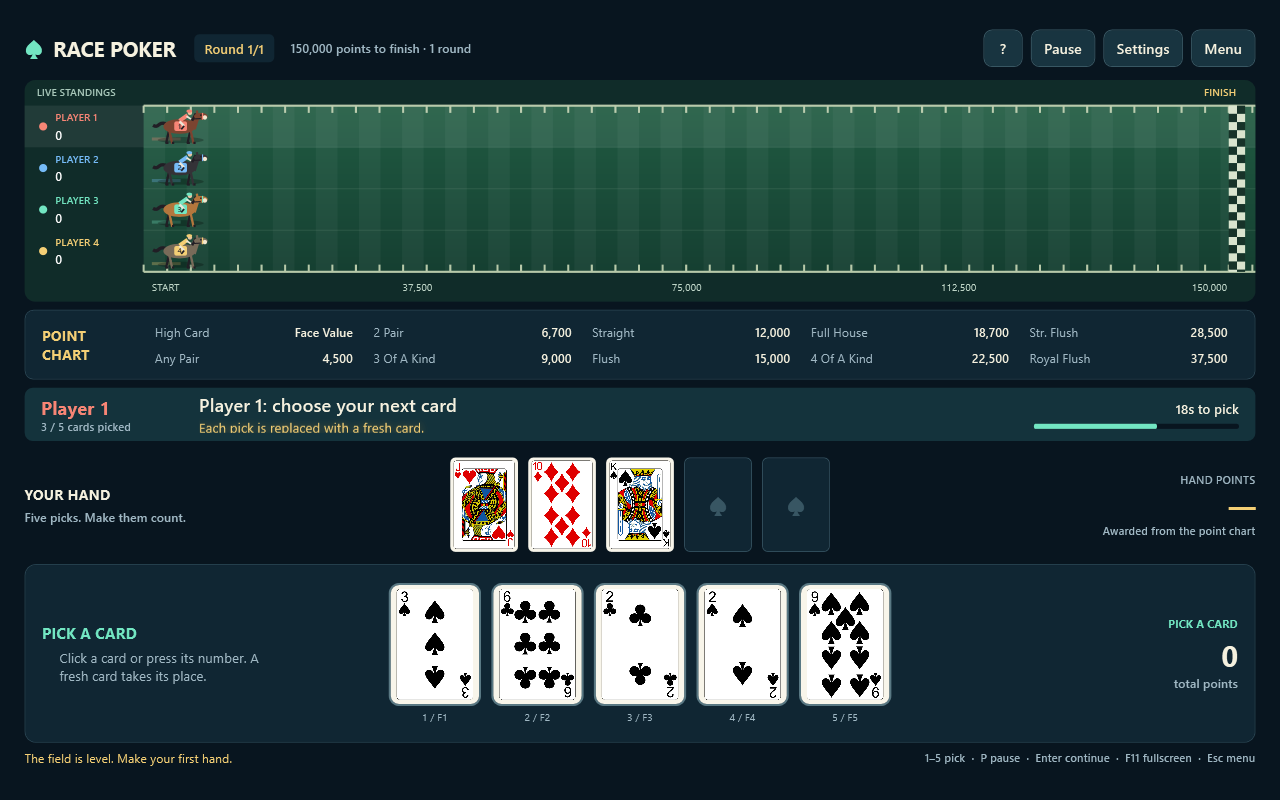
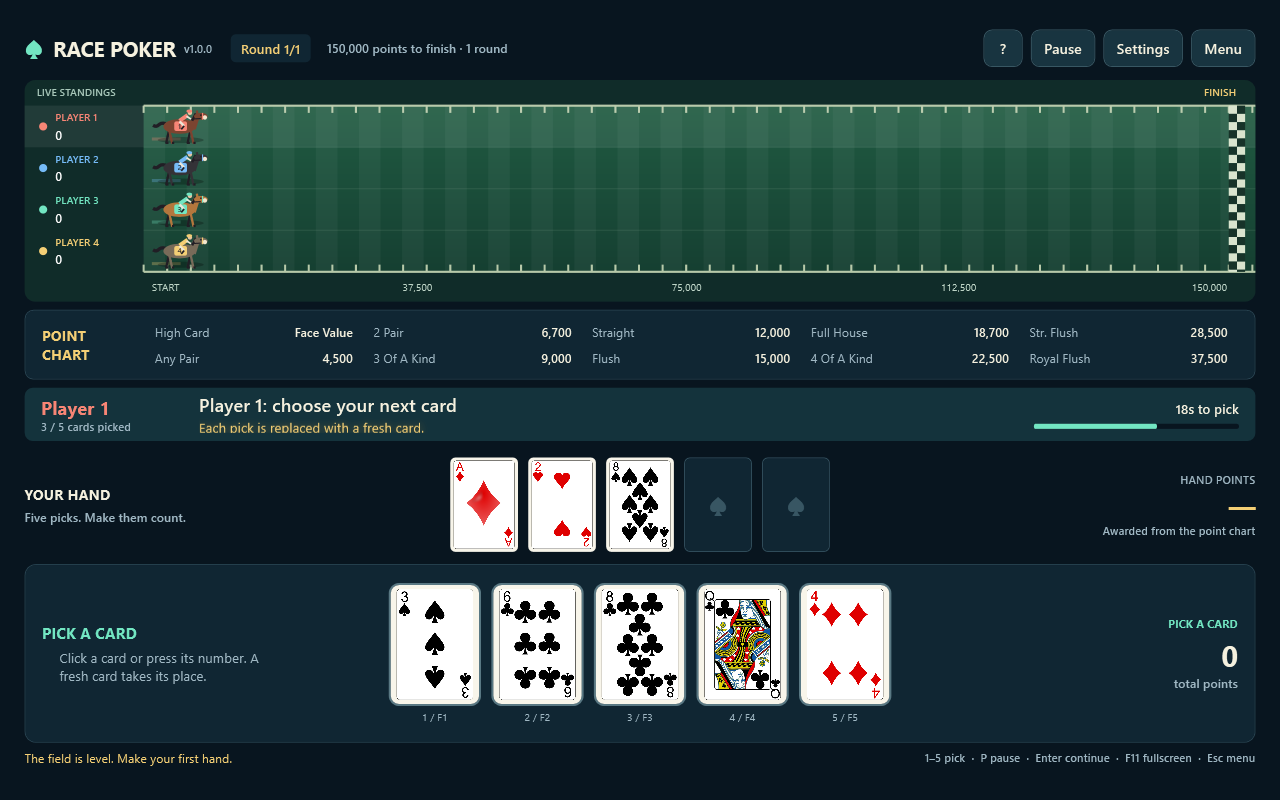
Bundle single-file release and version labels
Adds GitHub release automation, a PowerShell publisher, embedded point-table resources, and version display in the WPF UI. The app now ships as a single win-x64 executable with the release tag baked into the build version, and the verification/tests were updated to confirm the embedded assets and game views behave correctly.

Changed region(s): [[0.4688, 0.75, 0.6875, 0.875], [0.3438, 0.5625, 0.5312, 0.6875], [0.1562, 0.0312, 0.375, 0.0938]]

diff --git a/src/RacePoker.Wpf/Views/RacePokerGameView.xaml b/src/RacePoker.Wpf/Views/RacePokerGameView.xaml
@@ -15,6 +15,7 @@
                     <StackPanel Orientation="Horizontal" VerticalAlignment="Center">
                         <TextBlock Text="♠" Foreground="{StaticResource ArcadeMint}" FontSize="26" Margin="0,0,10,0" />
                         <TextBlock Text="RACE POKER" Foreground="{StaticResource ArcadeCream}" FontSize="20" FontWeight="Bold" VerticalAlignment="Center" />
+                        <TextBlock x:Name="VersionLabel" Text="{Binding VersionDisplay}" Style="{StaticResource ArcadeCaption}" FontSize="11" Margin="8,0,0,0" VerticalAlignment="Center" />
                         <Border Background="{StaticResource ArcadePanel}" CornerRadius="5" Padding="10,5" Margin="18,0,0,0" VerticalAlignment="Center">
                             <TextBlock Text="{Binding RoundDisplay}" Foreground="{StaticResource ArcadeGold}" FontSize="13" FontWeight="SemiBold" />
                         </Border>

diff --git a/src/RacePoker.Wpf/Views/ShellView.xaml b/src/RacePoker.Wpf/Views/ShellView.xaml
@@ -15,7 +15,7 @@
                         </Border>
                         <TextBlock Text="RACE POKER" FontSize="20" FontWeight="Bold" Foreground="{StaticResource ArcadeCream}" VerticalAlignment="Center" />
                         <Border BorderBrush="{StaticResource ArcadeLine}" BorderThickness="1" CornerRadius="4" Padding="8,3" Margin="14,0,0,0" VerticalAlignment="Center">
-                            <TextBlock Text="ARCADE EDITION" Style="{StaticResource ArcadeCaption}" FontSize="10" />
+                            <TextBlock x:Name="VersionLabel" Text="{Binding VersionDisplay}" Style="{StaticResource ArcadeCaption}" FontSize="11" />
                         </Border>
                     </StackPanel>
                     <StackPanel Orientation="Horizontal" HorizontalAlignment="Right" VerticalAlignment="Center">

diff --git a/tools/VerifyGame/Program.cs b/tools/VerifyGame/Program.cs
@@ -19,7 +19,7 @@ using RacePoker.Wpf.Views;
 
 class Program
 {
-    static string Output = Path.GetFullPath(Path.Combine(AppContext.BaseDirectory, "../../../../../artifacts/previews"));
+    static string Output = Path.GetFullPath(Path.Combine(Directory.GetCurrentDirectory(), "artifacts/previews"));
     static void Assert(bool ok, string message) { if (!ok) throw new Exception(message); Console.WriteLine("PASS " + message); }
     [STAThread]
     static void Main()
@@ -48,12 +48,14 @@ class Program
         typeof(MainViewModel).GetMethod("SettingsApplied", BindingFlags.Instance | BindingFlags.NonPublic)!.Invoke(vm, null);
         Assert(((RotateTransform)shell.FindName("CardRotate1")).HasAnimatedProperties, "lobby animation can be restarted without reloading the view");
         Render(shell, "lobby-empty.png");
+        Assert(((TextBlock)shell.FindName("VersionLabel")).Text == vm.VersionDisplay && Version.TryParse(vm.VersionDisplay[1..].Split('-')[0], out _), "lobby displays the build version");
         for (int i = 0; i < 10; i++) vm.HighScores.Add(new HighScoreEntry { Initials = i == 0 ? "ACE" : "P" + i, Score = 81140 - i * 2200, Date = new DateTime(2026, 10, 7) });
         Render(shell, "lobby.png");
         vm.HandleKeyDown(Key.D4);
         Assert(engine.Seats.Count(s => s.Status == SeatStatus.Joined) == 4, "four-player start");
         var game = new RacePokerGameView { DataContext = vm };
         Render(game, "four-player-picking.png");
+        Assert(((TextBlock)game.FindName("VersionLabel")).Text == vm.VersionDisplay, "game header displays the build version");
         engine.Tick(TimeSpan.FromSeconds(12));
         typeof(MainViewModel).GetField("_lastTick", BindingFlags.Instance | BindingFlags.NonPublic)!.SetValue(vm, TimeProvider.System.GetTimestamp());
         typeof(MainViewModel).GetMethod("OnTimerTick", BindingFlags.Instance | BindingFlags.NonPublic)!.Invoke(vm, new object?[] { null, EventArgs.Empty });
@@ -142,7 +144,7 @@ class Program
             if (round < 9) engine.PressContinue(0);
         }
         Assert(engine.Seats[0].TotalScore == 60300, "nine photographed hands total 60,300 without bonuses");
-        var deployedChart = PointTableService.Load(Path.Combine(AppContext.BaseDirectory, "Config", "pointTable.json"));
+        var deployedChart = RacePoker.Wpf.Services.GameResources.LoadPointTable();
         Assert(deployedChart.GetPoints(HandEvaluator.Evaluate(photoHand)) == 6700, "deployed point chart matches photographed hand");
         Render(game, "reference-scoring-round9.png");
         vm.Stop();

diff --git a/src/RacePoker.Wpf/ViewModels/MainViewModel.cs b/src/RacePoker.Wpf/ViewModels/MainViewModel.cs
@@ -1,4 +1,5 @@
 using System.Collections.ObjectModel;
+using System.Reflection;
 using System.Windows;
 using System.Windows.Input;
 using System.Windows.Threading;
@@ -30,6 +31,9 @@ public class MainViewModel : ViewModelBase
     private string _pauseReason = "";
     private bool _showCloseFailure;
     private InitialsEntryViewModel? _activeInitialsEntry;
+
+    public string VersionDisplay { get; } = "v" + (typeof(MainViewModel).Assembly
+        .GetCustomAttribute<AssemblyInformationalVersionAttribute>()?.InformationalVersion.Split('+')[0] ?? "1.0.0");
 
     public bool IsPaused { get => _isPaused; private set => SetProperty(ref _isPaused, value); }
     public string PauseReason { get => _pauseReason; private set => SetProperty(ref _pauseReason, value); }
@@ -319,9 +323,7 @@ public class MainViewModel : ViewModelBase
     public MainViewModel(GameSettings? settings, string? dataDirectory, TimeProvider? timeProvider = null)
     {
         _timeProvider = timeProvider ?? TimeProvider.System;
-        var pointTablePath = System.IO.Path.Combine(
-            AppDomain.CurrentDomain.BaseDirectory, "Config", "pointTable.json");
-        var pointTable = PointTableService.Load(pointTablePath);
+        var pointTable = GameResources.LoadPointTable();
 
         _settingsService = new SettingsService(dataDirectory is null ? null : System.IO.Path.Combine(dataDirectory, "settings.json"));
         settings ??= _settingsService.Load();

diff --git a/src/RacePoker.Core/Services/PointTableService.cs b/src/RacePoker.Core/Services/PointTableService.cs
@@ -1,3 +1,4 @@
+using System.Text.Json;
 using RacePoker.Core.Enums;
 using RacePoker.Core.Models;
 
@@ -6,8 +7,13 @@ namespace RacePoker.Core.Services;
 public static class PointTableService
 {
     public static PointTable Load(string path)
+        => CreateTable(JsonFileStore.Load(path, () => new Dictionary<string, int>(), out _));
+
+    public static PointTable Load(Stream stream)
+        => CreateTable(JsonSerializer.Deserialize<Dictionary<string, int>>(stream) ?? new());
+
+    private static PointTable CreateTable(Dictionary<string, int> values)
     {
-        var values = JsonFileStore.Load(path, () => new Dictionary<string, int>(), out _);
         var table = new PointTable();
         foreach (var (key, value) in values)
             if (Enum.TryParse<HandCategory>(key, out var category) && Enum.IsDefined(category) && value >= 0 && value <= 1000000)

diff --git a/src/RacePoker.Tests/PointTableTests.cs b/src/RacePoker.Tests/PointTableTests.cs
@@ -1,10 +1,24 @@
 using RacePoker.Core.Enums;
 using RacePoker.Core.Models;
+using RacePoker.Core.Services;
+using System.Text;
 
 namespace RacePoker.Tests;
 
 public class PointTableTests
 {
+    [Fact]
+    public void LoadFromStream_AppliesValidOverridesAndIgnoresInvalidValues()
+    {
+        using var stream = new MemoryStream(Encoding.UTF8.GetBytes(
+            """{"TwoPair": 7100, "OnePair": -1, "RoyalFlush": 1000001, "Unknown": 5, "999": 42}"""));
+        var table = PointTableService.Load(stream);
+        Assert.Equal(7100, table.Points[HandCategory.TwoPair]);
+        Assert.Equal(4500, table.Points[HandCategory.OnePair]);
+        Assert.Equal(37500, table.Points[HandCategory.RoyalFlush]);
+        Assert.Equal(Enum.GetValues<HandCategory>().Length, table.Points.Count);
+    }
+
     [Fact]
     public void DefaultPointValues_MatchExpected()
     {

diff --git a/src/RacePoker.Wpf/Services/GameResources.cs b/src/RacePoker.Wpf/Services/GameResources.cs
@@ -1,0 +1,14 @@
+using RacePoker.Core.Models;
+using RacePoker.Core.Services;
+
+namespace RacePoker.Wpf.Services;
+
+public static class GameResources
+{
+    public static PointTable LoadPointTable()
+    {
+        using var stream = typeof(GameResources).Assembly.GetManifestResourceStream("RacePoker.PointTable.json")
+            ?? throw new InvalidOperationException("The game's embedded point table is missing.");
+        return PointTableService.Load(stream);
+    }
+}

diff --git a/README.md b/README.md
@@ -10,7 +10,7 @@ A Windows arcade game for **1–4 players**. Pick from five face-up cards to bui
 dotnet run --project src/RacePoker.Wpf
 ```
 
-**Built game:** open `artifacts/Release/RacePoker.Wpf.exe`. Requires the .NET 10 Desktop Runtime; keep the release folder’s files together.
+**Built game:** download `RacePoker.Wpf.exe` from [Releases](https://github.com/primetime43/Poker-Race/releases), or build it below. Requires Windows x64 and the **.NET 10 Desktop Runtime (x64)**. The game and its resources are bundled into one executable; the runtime is installed separately.
 
 | Action | Control |
 | --- | --- |
@@ -47,8 +47,19 @@ See [scoring notes](docs/reference-scoring.md) for the photo-based payouts and c
 dotnet test RacePoker.sln
 dotnet run --project tools/VerifyGame
 
-# Build the runnable folder
-dotnet publish src/RacePoker.Wpf -c Release -o artifacts/Release
+# Build one executable (no bundled runtime)
+./scripts/Publish-Release.ps1
 ```
 
-UI verification writes screenshots and isolated test data to `artifacts/previews`.
+Output: `artifacts/Release/RacePoker.Wpf.exe`. UI verification writes screenshots and isolated test data to `artifacts/previews`.
+
+## Create a release
+
+After committing and pushing your changes, push a version tag:
+
+```powershell
+git tag v1.0.0
+git push origin v1.0.0
+```
+
+The [Release workflow](.github/workflows/release.yml) tests the game, builds the single executable, and attaches it directly to a GitHub release. The tag sets the version shown in the game header. You can also run it from **Actions → Release → Run workflow** with an existing tag. No ZIP is needed.
